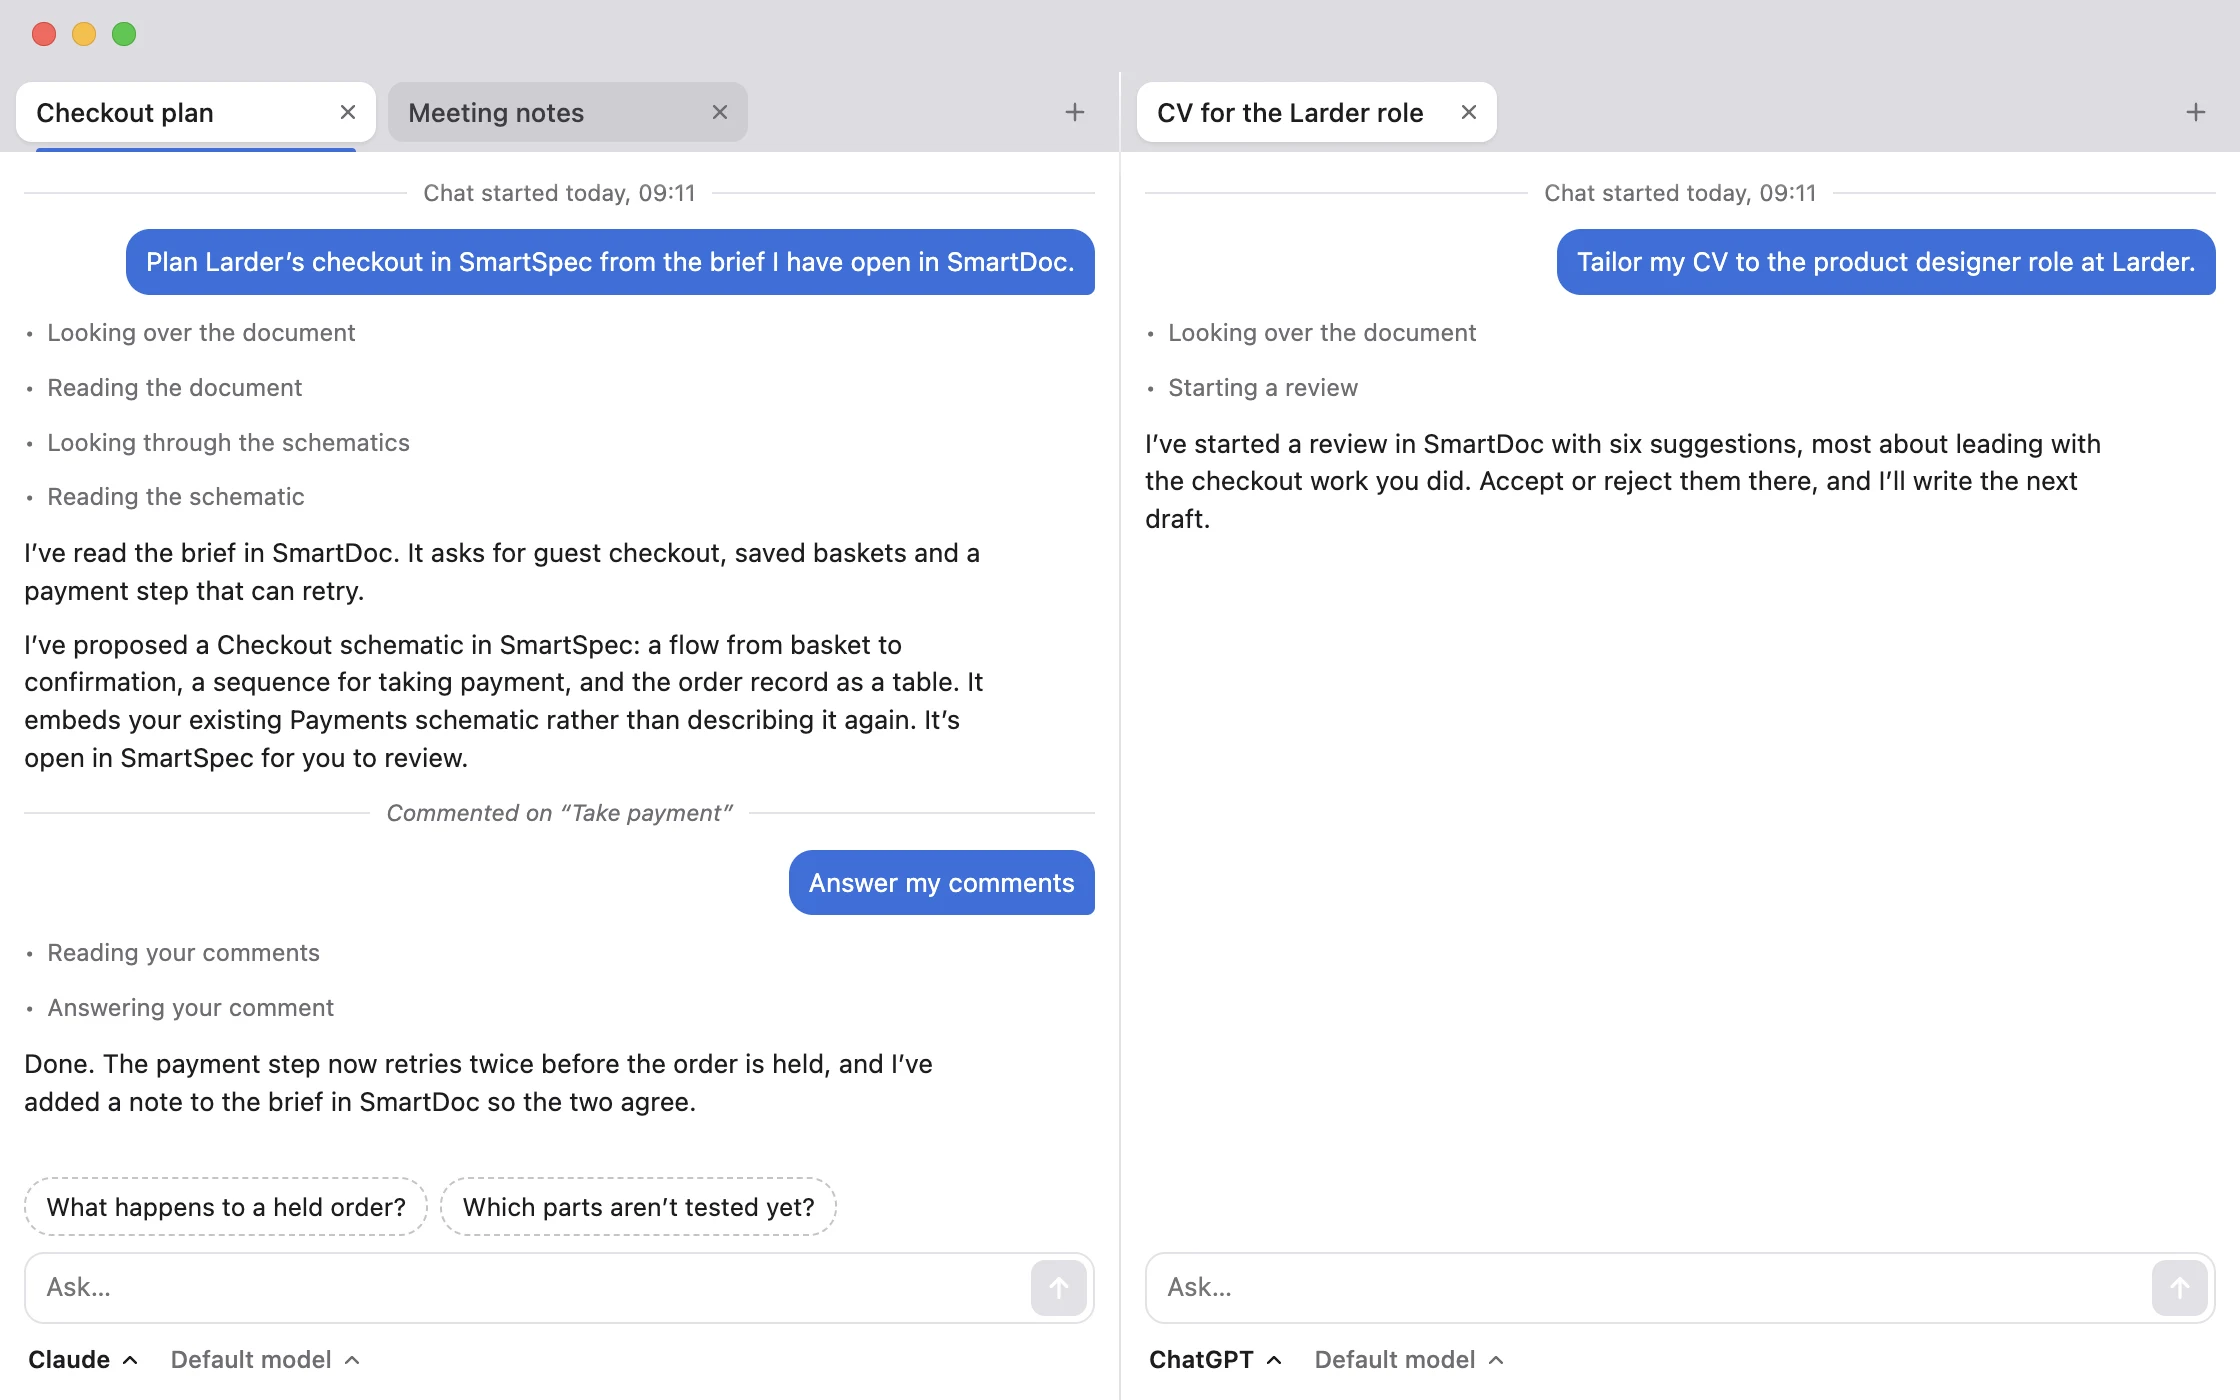
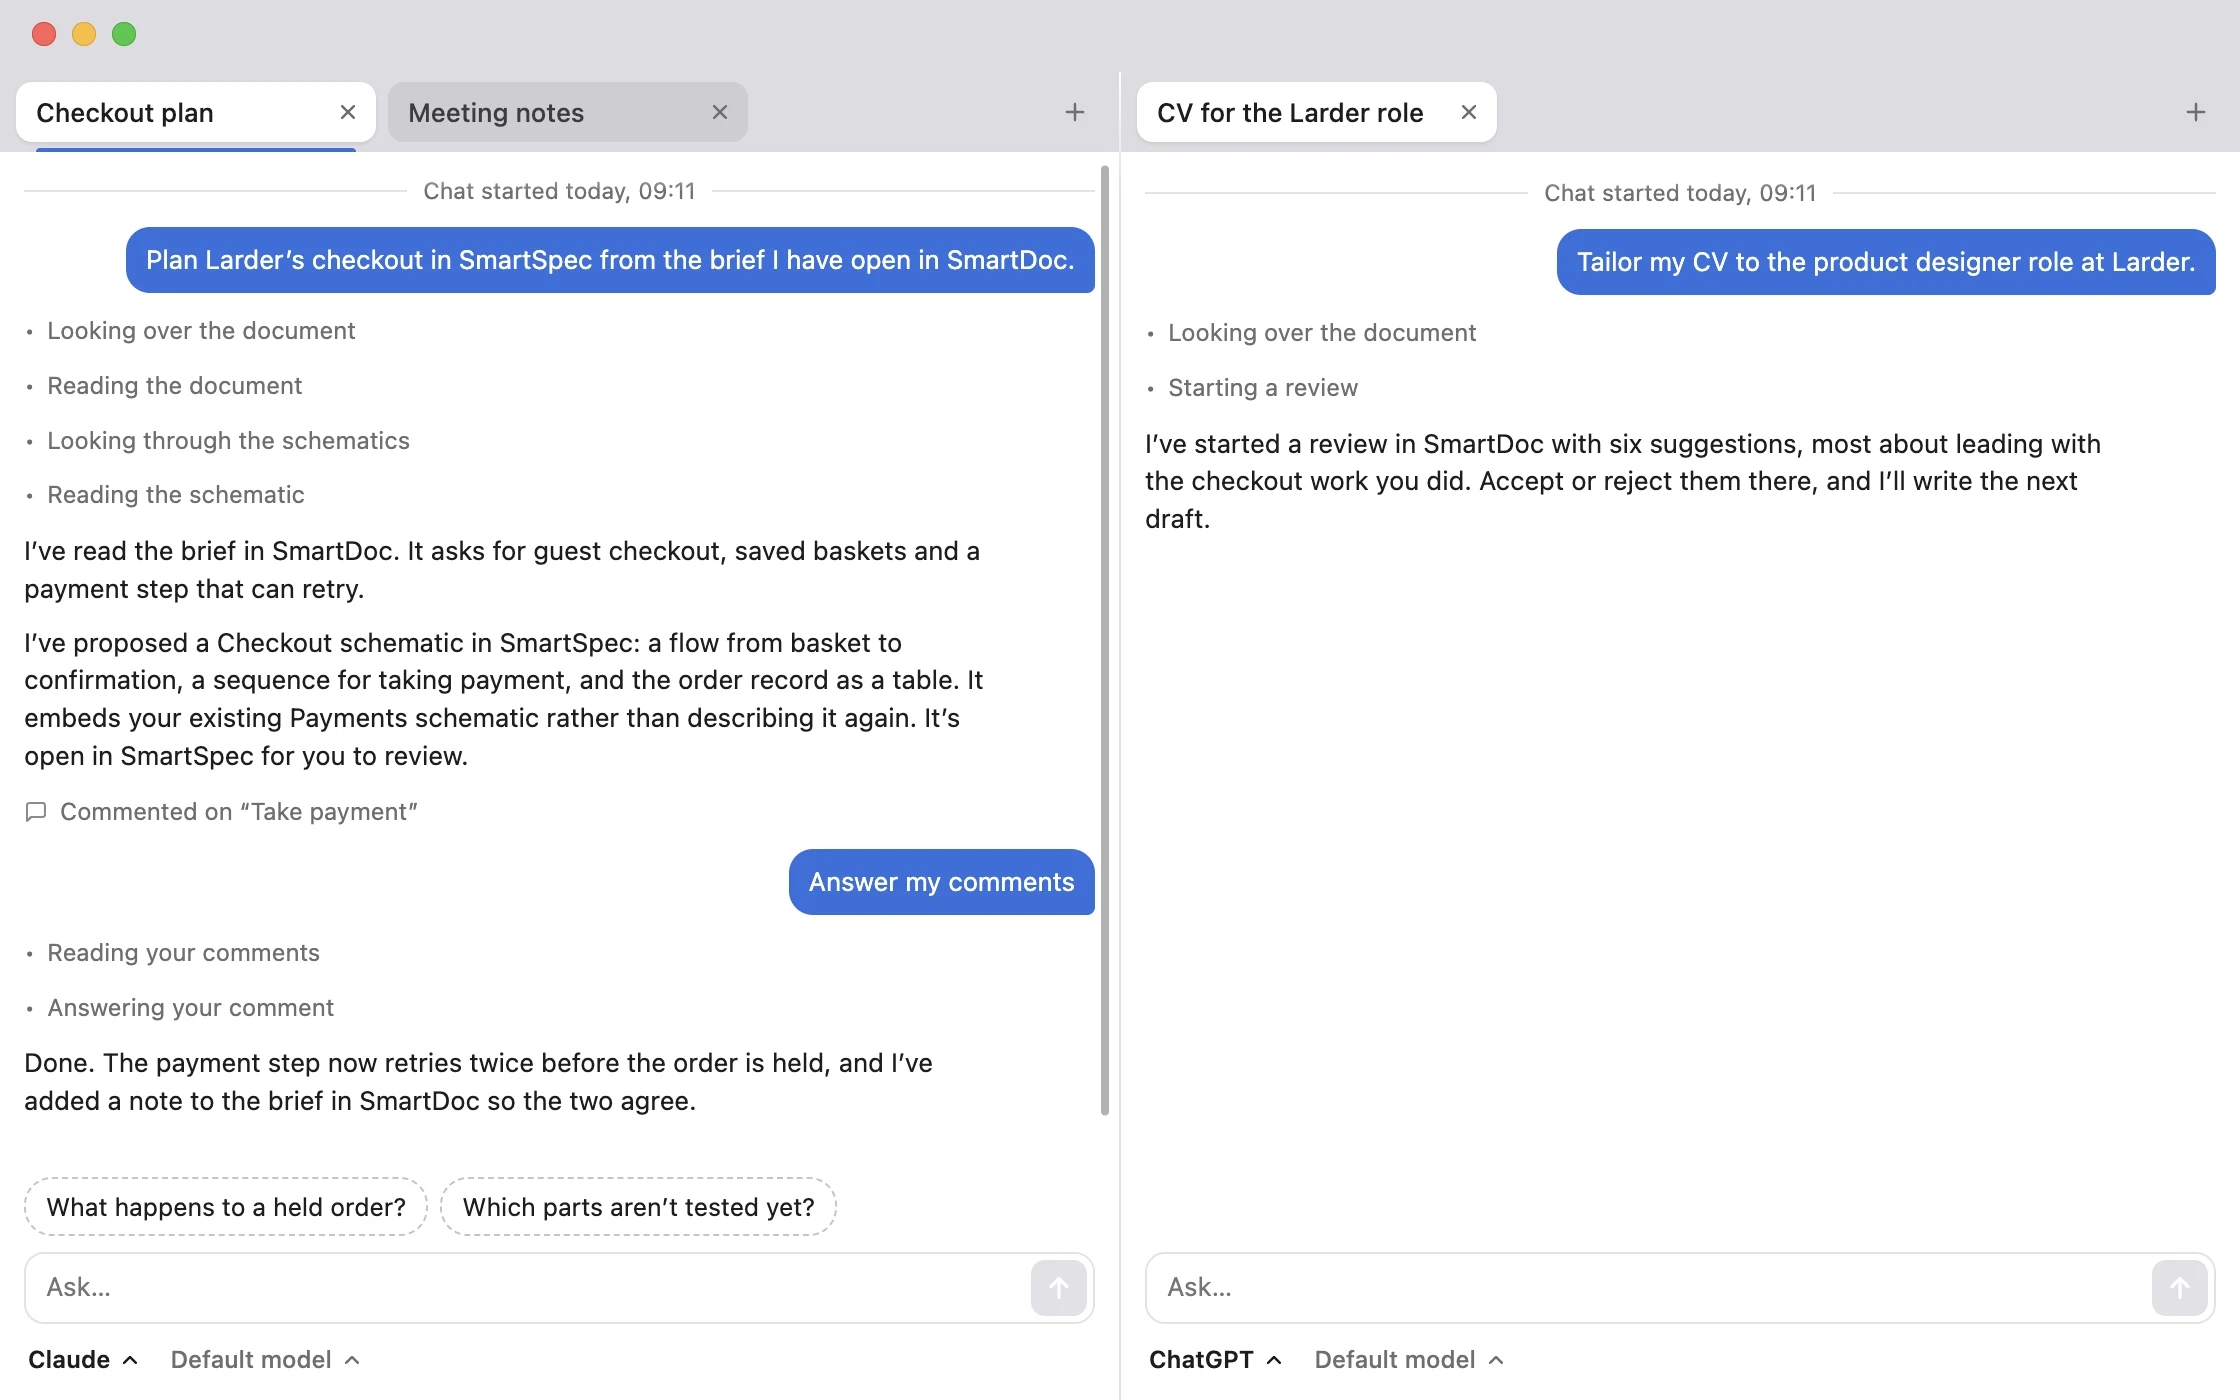
Show what the user did in the chat as plain lines
Where a tab went ("Opened …", "Went home") is still a line across the
conversation between rules; what the user did there ("Accepted …",
"Looking at …") is now a plain line on the left with its verb's icon,
so a run of them no longer reads as a wall of dividers. Every such line
is one line, ending in "…" with the whole on hover. Notes about moves are
saved with `move`. The website's still is retaken to match.

diff --git a/packages/app/src/renderer/chat-panel.js b/packages/app/src/renderer/chat-panel.js
@@ -434,7 +434,8 @@ export function createChatPanel({ el, api, chatId }) {
     return list.filter((message) => message.role !== 'assistant' || message.text?.trim()).map((message) => {
       const node = div(`chat-message ${message.role}${message.kind ? ` ${message.kind}` : ''}`);
       if (message.role === 'assistant') node.append(...formatted(message.text));
-      else if (message.role === 'step' || message.role === 'event') node.textContent = message.text;
+      else if (message.role === 'event') eventLine(node, message);
+      else if (message.role === 'step') node.textContent = message.text;
       else for (const paragraph of message.text.split(/\n{2,}/)) node.append(div('chat-paragraph', paragraph));
       // The AI's session for the conversation has gone: while that's the latest thing, a way to
       // start a new one (the user may fix it instead, and send again).
@@ -452,6 +453,20 @@ export function createChatPanel({ el, api, chatId }) {
       }
       return node;
     });
+  }
+
+  // A line of context or where things went, always one line: what doesn't fit ends in "…", whole
+  // on hover. Where a tab went (or a new session) is drawn across the conversation, between rules;
+  // what the user did in it is a plain line with its verb's icon (see ACTION_ICONS).
+  function eventLine(node, message) {
+    const text = div('chat-event-text', message.text);
+    node.title = message.text;
+    if (message.kind === 'context' && !isMove(message)) {
+      node.classList.add('action');
+      const icon = div('chat-event-icon');
+      icon.innerHTML = actionIcon(message.text);
+      node.append(icon, text);
+    } else node.append(text);
   }
 
   showChoice();
@@ -521,6 +536,21 @@ function inline(text) {
   if (at < text.length) nodes.push(document.createTextNode(text.slice(at)));
   return nodes;
 }
+
+// Lines saved before moves were marked as such (`move`), known by how they start.
+const isMove = (message) => message.move || /^(Opened |Went home|Reviewing the proposed)/.test(message.text);
+
+// The icon for what the user did, by the verb its line starts with (Lucide's, ISC); a dot otherwise.
+const ICON = (paths) => `<svg viewBox="0 0 24 24" width="12" height="12" fill="none" stroke="currentColor" stroke-width="2.2" stroke-linecap="round" stroke-linejoin="round" aria-hidden="true">${paths}</svg>`;
+const ACTION_ICONS = [
+  [/^(Accepted|Approved|Answered|Acknowledged|Chose|Decided)\b/, ICON('<path d="M20 6 9 17l-5-5"/>')],
+  [/^(Rejected|Discarded)\b/, ICON('<path d="M18 6 6 18"/><path d="m6 6 12 12"/>')],
+  [/^Skipped\b/, ICON('<path d="M5 12h14"/><path d="m12 5 7 7-7 7"/>')],
+  [/^Looking at\b/, ICON('<path d="M2.062 12.348a1 1 0 0 1 0-.696 10.75 10.75 0 0 1 19.876 0 1 1 0 0 1 0 .696 10.75 10.75 0 0 1-19.876 0"/><circle cx="12" cy="12" r="3"/>')],
+  [/^Commented on\b/, ICON('<path d="M21 15a2 2 0 0 1-2 2H7l-4 4V5a2 2 0 0 1 2-2h14a2 2 0 0 1 2 2z"/>')],
+  [/^Took back\b/, ICON('<path d="M9 14 4 9l5-5"/><path d="M4 9h10.5a5.5 5.5 0 0 1 5.5 5.5a5.5 5.5 0 0 1-5.5 5.5H11"/>')],
+];
+const actionIcon = (text) => ACTION_ICONS.find(([verb]) => verb.test(text))?.[1] ?? ICON('<circle cx="12" cy="12" r="2" fill="currentColor" stroke="none"/>');
 
 function div(className, text) {
   const node = document.createElement('div');

diff --git a/packages/app/src/renderer/styles.css b/packages/app/src/renderer/styles.css
@@ -197,7 +197,9 @@ body.chat-window-body { display: flex; flex-direction: column; background: var(-
 .chat-message.step::before { content: "•"; margin-right: 6px; }
 /* Where an app window went, noted in the conversation: a quiet line across it. */
 .chat-message.event { align-self: stretch; display: flex; align-items: center; gap: 8px; max-width: none; color: var(--muted); font-size: 11.5px; }
-.chat-message.event::before, .chat-message.event::after { content: ""; flex: 1; height: 1px; background: var(--border); }
+.chat-message.event::before, .chat-message.event::after { content: ""; flex: 1 0 16px; height: 1px; background: var(--border); }
+/* Always one line: what doesn't fit ends in "…" (the whole line on hover). */
+.chat-event-text { min-width: 0; overflow: hidden; text-overflow: ellipsis; white-space: nowrap; }
 .chat-message.error { align-self: stretch; padding: 7px 10px; border-radius: 8px; background: var(--del-bg); color: var(--del-text); }
 /* The AI's session has gone: said plainly, not as a failure, with a way to start a new one. */
 .chat-message.error.session-gone { display: grid; gap: 10px; justify-items: start; padding: 10px 12px; background: var(--subtle-bg); color: var(--text-2); }
@@ -215,6 +217,11 @@ body.chat-window-body { display: flex; flex-direction: column; background: var(-
 /* What the user did or looked at in an app, posted to the conversation as context for their
    next message (see chat-panel.js): a quiet line across it, as other notes are. */
 .chat-message.event.context { color: var(--muted); font-style: italic; }
+/* Something the user did in a tab (not where it went): a plain line on the left, its verb's icon
+   first, as the AI's steps are, with no rules. */
+.chat-message.event.action { gap: 6px; font-size: 12px; font-style: normal; }
+.chat-message.event.action::before, .chat-message.event.action::after { content: none; }
+.chat-event-icon { display: flex; flex: none; opacity: 0.8; }
 /* A question the AI suggested asking next: a shortcut like the others, in its own quieter style. */
 .chat-chip.suggested { border-style: dashed; }
 /* The message box floats over the conversation's bottom, on the chat's background, which

diff --git a/packages/app/src/main/agent.js b/packages/app/src/main/agent.js
@@ -602,15 +602,16 @@ export function createAgent({ userData, onEvent, trial = null }) {
   // not sent to the AI by itself, but with the user's next message (contextFor), so it knows what has
   // happened and what they were looking at. `detail` is what the AI is told, if it needs more than
   // the line says. Looking at something new replaces a line about what they looked at before, if
-  // nothing came between, so the conversation doesn't fill with them.
-  async function note(id, { text, detail = null, focus = false, about = null } = {}) {
+  // nothing came between, so the conversation doesn't fill with them. `move` marks where a tab went
+  // (drawn across the conversation), as against something the user did there.
+  async function note(id, { text, detail = null, focus = false, about = null, move = false } = {}) {
     if (!text) return;
     const chat = await load(id);
     if (!chat) return;
     const { messages } = chat;
     const last = messages.at(-1);
     if (last?.kind === 'context' && last.text === text) return;
-    const entry = { id: `m-${Date.now().toString(36)}-${messages.length}`, at: new Date().toISOString(), role: 'event', kind: 'context', text, ...(detail && { detail }), ...(focus && { focus: true }), ...(about && { about }) };
+    const entry = { id: `m-${Date.now().toString(36)}-${messages.length}`, at: new Date().toISOString(), role: 'event', kind: 'context', text, ...(detail && { detail }), ...(focus && { focus: true }), ...(about && { about }), ...(move && { move: true }) };
     if (focus && last?.kind === 'context' && last.focus) messages[messages.length - 1] = entry;
     else messages.push(entry);
     await save(chat);

diff --git a/packages/app/src/main/main.js b/packages/app/src/main/main.js
@@ -141,7 +141,7 @@ async function onMessage(client, message) {
         const before = win.shows?.key;
         const owner = ownerOf(client.app, id);
         if (owner && before !== undefined && before !== message.shows.key && message.shows.text) {
-          agent.note(owner, { text: message.shows.text, detail: `In ${client.name}: ${message.shows.detail ?? message.shows.text}` });
+          agent.note(owner, { text: message.shows.text, detail: `In ${client.name}: ${message.shows.detail ?? message.shows.text}`, move: true });
         }
         win.shows = message.shows;
       }
